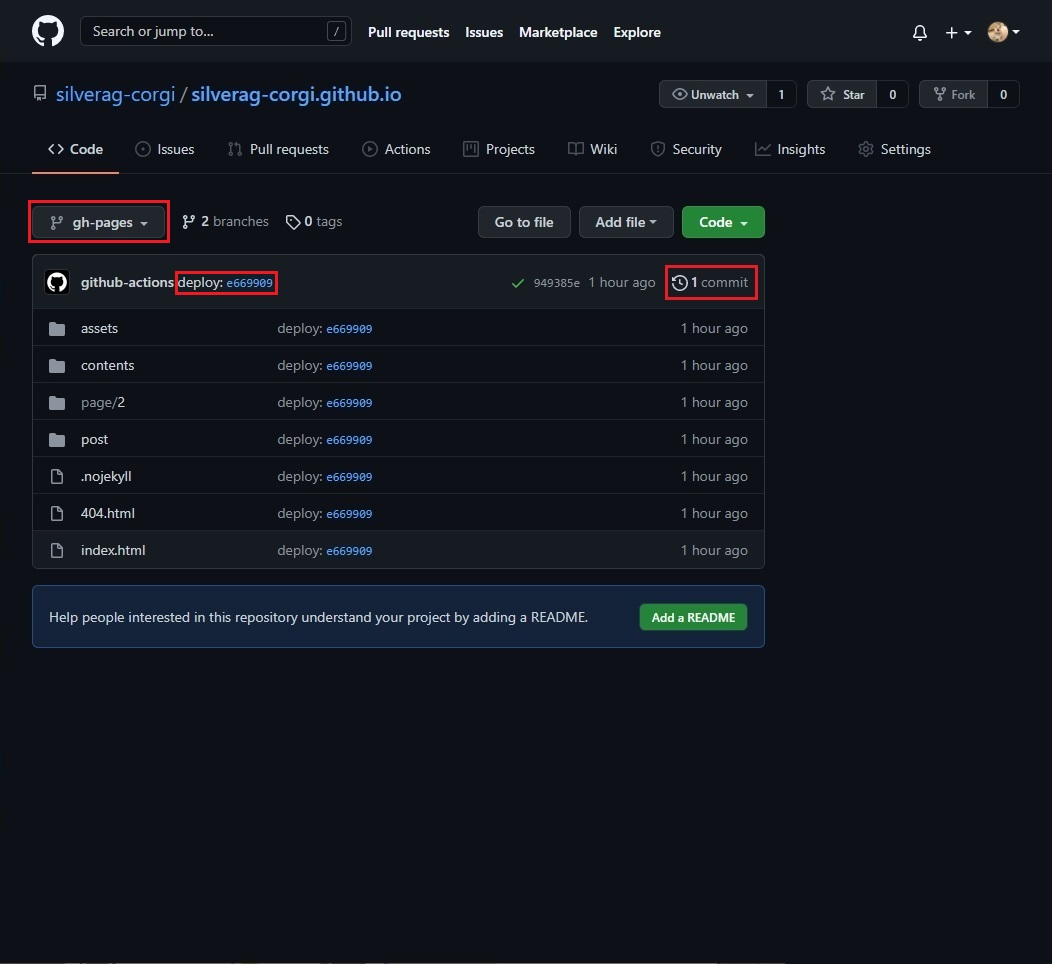
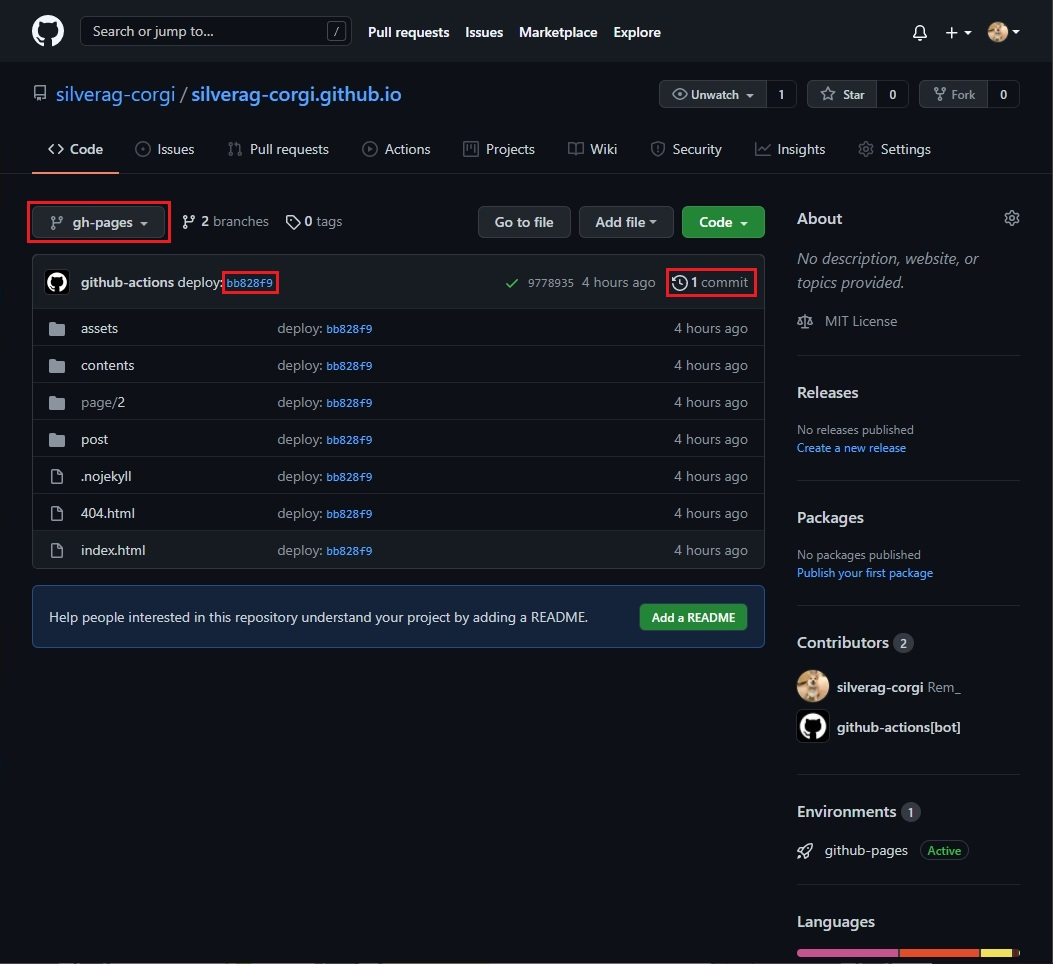
[d_upd] 記事更新

diff --git a/_posts/2021-09-02-00007.md b/_posts/2021-09-02-00007.md
@@ -3,7 +3,7 @@ layout: post
 title:  セーフモードOFFのJekyllをGitHubActionsにより楽に使用する環境の構築手順
 
 date:   2021/09/02 22:30:00
-update: 2021/09/03 05:30:00
+update: 2021/09/04 07:00:00
 image: /assets/post/00007/GitHubActions.jpg
 toc:    true
 tags:
@@ -129,7 +129,7 @@ on:
 # 実行されるジョブ一覧
 jobs:
   deploy: # ジョブ名
-    runs-on: windows-2019 # 実行環境
+    runs-on: ubuntu-20.04 # 実行環境
     
     concurrency: # 並行処理(同じグループのジョブは処理待ち)
       group: ${{ github.workflow }} - ${{ github.ref }}
@@ -141,7 +141,7 @@ jobs:
       - name: Set Timezone
         uses: szenius/set-timezone@v1.0
         with:
-          timezoneWindows: "Tokyo Standard Time"
+          timezoneLinux: "Asia/Tokyo"
       
       # 4. GitHubActionsがリポジトリをチェックアウトする
       - name: Checkout Repository
@@ -176,18 +176,42 @@ jobs:
 ```
 {% endraw %}
 
-【追記：2021/09/03】
 
-記事の投稿時間は日本標準時(JST:UTC+0900)で期待した通りであったが、
-GitHubActionがJekyllでビルドする際には、以下のメッセージが出力されビルドされない問題が発生した。
+## 2021/09/03 追記
+
+表示される記事の投稿日時は日本標準時(JST:UTC+0900)で期待した通りであったが、
+GitHubActionがJekyllでビルドする際に以下のメッセージが出力され、ビルドされない問題が発生した。
 
   - Skipping: _posts/2021-09-02-00007.md has a future date
-  - 未来の日時(FrontMatterで設定されたdate)のため記事ファイルのビルドをスキップ
+  - 記事の投稿日時が未来であるため、当該記事のビルドをスキップ
 
 GitHubActionの実行環境のタイムゾーンが協定世界時(WET:UTC+0000)になっていたため、
 この問題が発生したと思われる。
 
-ワークフローファイルのステップの最初にタイムゾーン設定処理(3.)を追加したことにより解決した。
+以下の対応を行うことにより解決した。
+
+  - ワークフローのステップの最初にタイムゾーン設定処理(3.)を追加する
+
+
+## 2021/09/04 追記
+
+GitHubActionがJekyllでビルドする際に以下のメッセージ(一部省略)が出力され、
+ファイル名(日本語)の文字化けによりビルドが失敗する問題が発生した。
+
+  - utils.rb:141:in `initialize': Invalid argument @ rb_sysopen - /contents/category/????.md (Errno::EINVAL)
+  - エラーログは[こちら](https://github.com/silverag-corgi/silverag-corgi.github.io/runs/3501344170)
+
+この問題はWindows用のRubyの課題として挙がっていた。
+解決策はWindows以外を使用するか、ASCII文字にファイル名を変更するか、どちらかであるとのこと。
+
+> This is a known issue with Ruby on Windows.
+> The solution would be to switch to a non-Windows system or rename files with ascii characters.
+
+以下の対応を行うことにより解決した。
+
+  - ワークフローの実行環境をwindows-2019からubuntu-20.04に変更する
+  - ワークフローのステップのタイムゾーン設定処理をLinux用に変更する
+  - Linux環境のsasscはBundleInstallが非常に遅いため2.4.0から2.1.0に変更する
 
 
 ## 参考サイト
@@ -198,13 +222,17 @@ GitHubActionの実行環境のタイムゾーンが協定世界時(WET:UTC+0000)
      ](https://github.com/peaceiris/actions-gh-pages)
   1. [Rubyでのビルドとテスト - GitHub Docs
      ](https://docs.github.com/ja/actions/guides/building-and-testing-ruby)
+  1. [Unicode character inside file name makes problems
+     ](https://talk.jekyllrb.com/t/unicode-character-inside-file-name-makes-problems/3665)
+  1. [Ruby on Rails 6のbundle installが重すぎる
+     ](https://qiita.com/croquette0212/items/d2f48f30c3ed7dcd0e3c)
 
 
 # GitHubActionsによる自動化の実行結果
 
 以下のコミットメッセージで開発用ブランチ(master)にプッシュした際の実行結果をワークフロー順に示す。
 
-  - [c_add] ワークフローファイル(gh-pagesブランチ)作成
+  - [d_upd] 記事更新
 
 
 ## 開発用ブランチ(master)の資産状態
@@ -217,7 +245,7 @@ GitHubActionの実行環境のタイムゾーンが協定世界時(WET:UTC+0000)
 
 上記で作成した
 [ワークフローファイル](#githubactionsによる自動化の設定)
-が実行され、1分54秒で完了している。
+が実行され、31秒で完了している。
 
 ![GitHubActions_log](
 {{ '/assets/post/00007/GitHubActions_log.JPG' | relative_url }})
